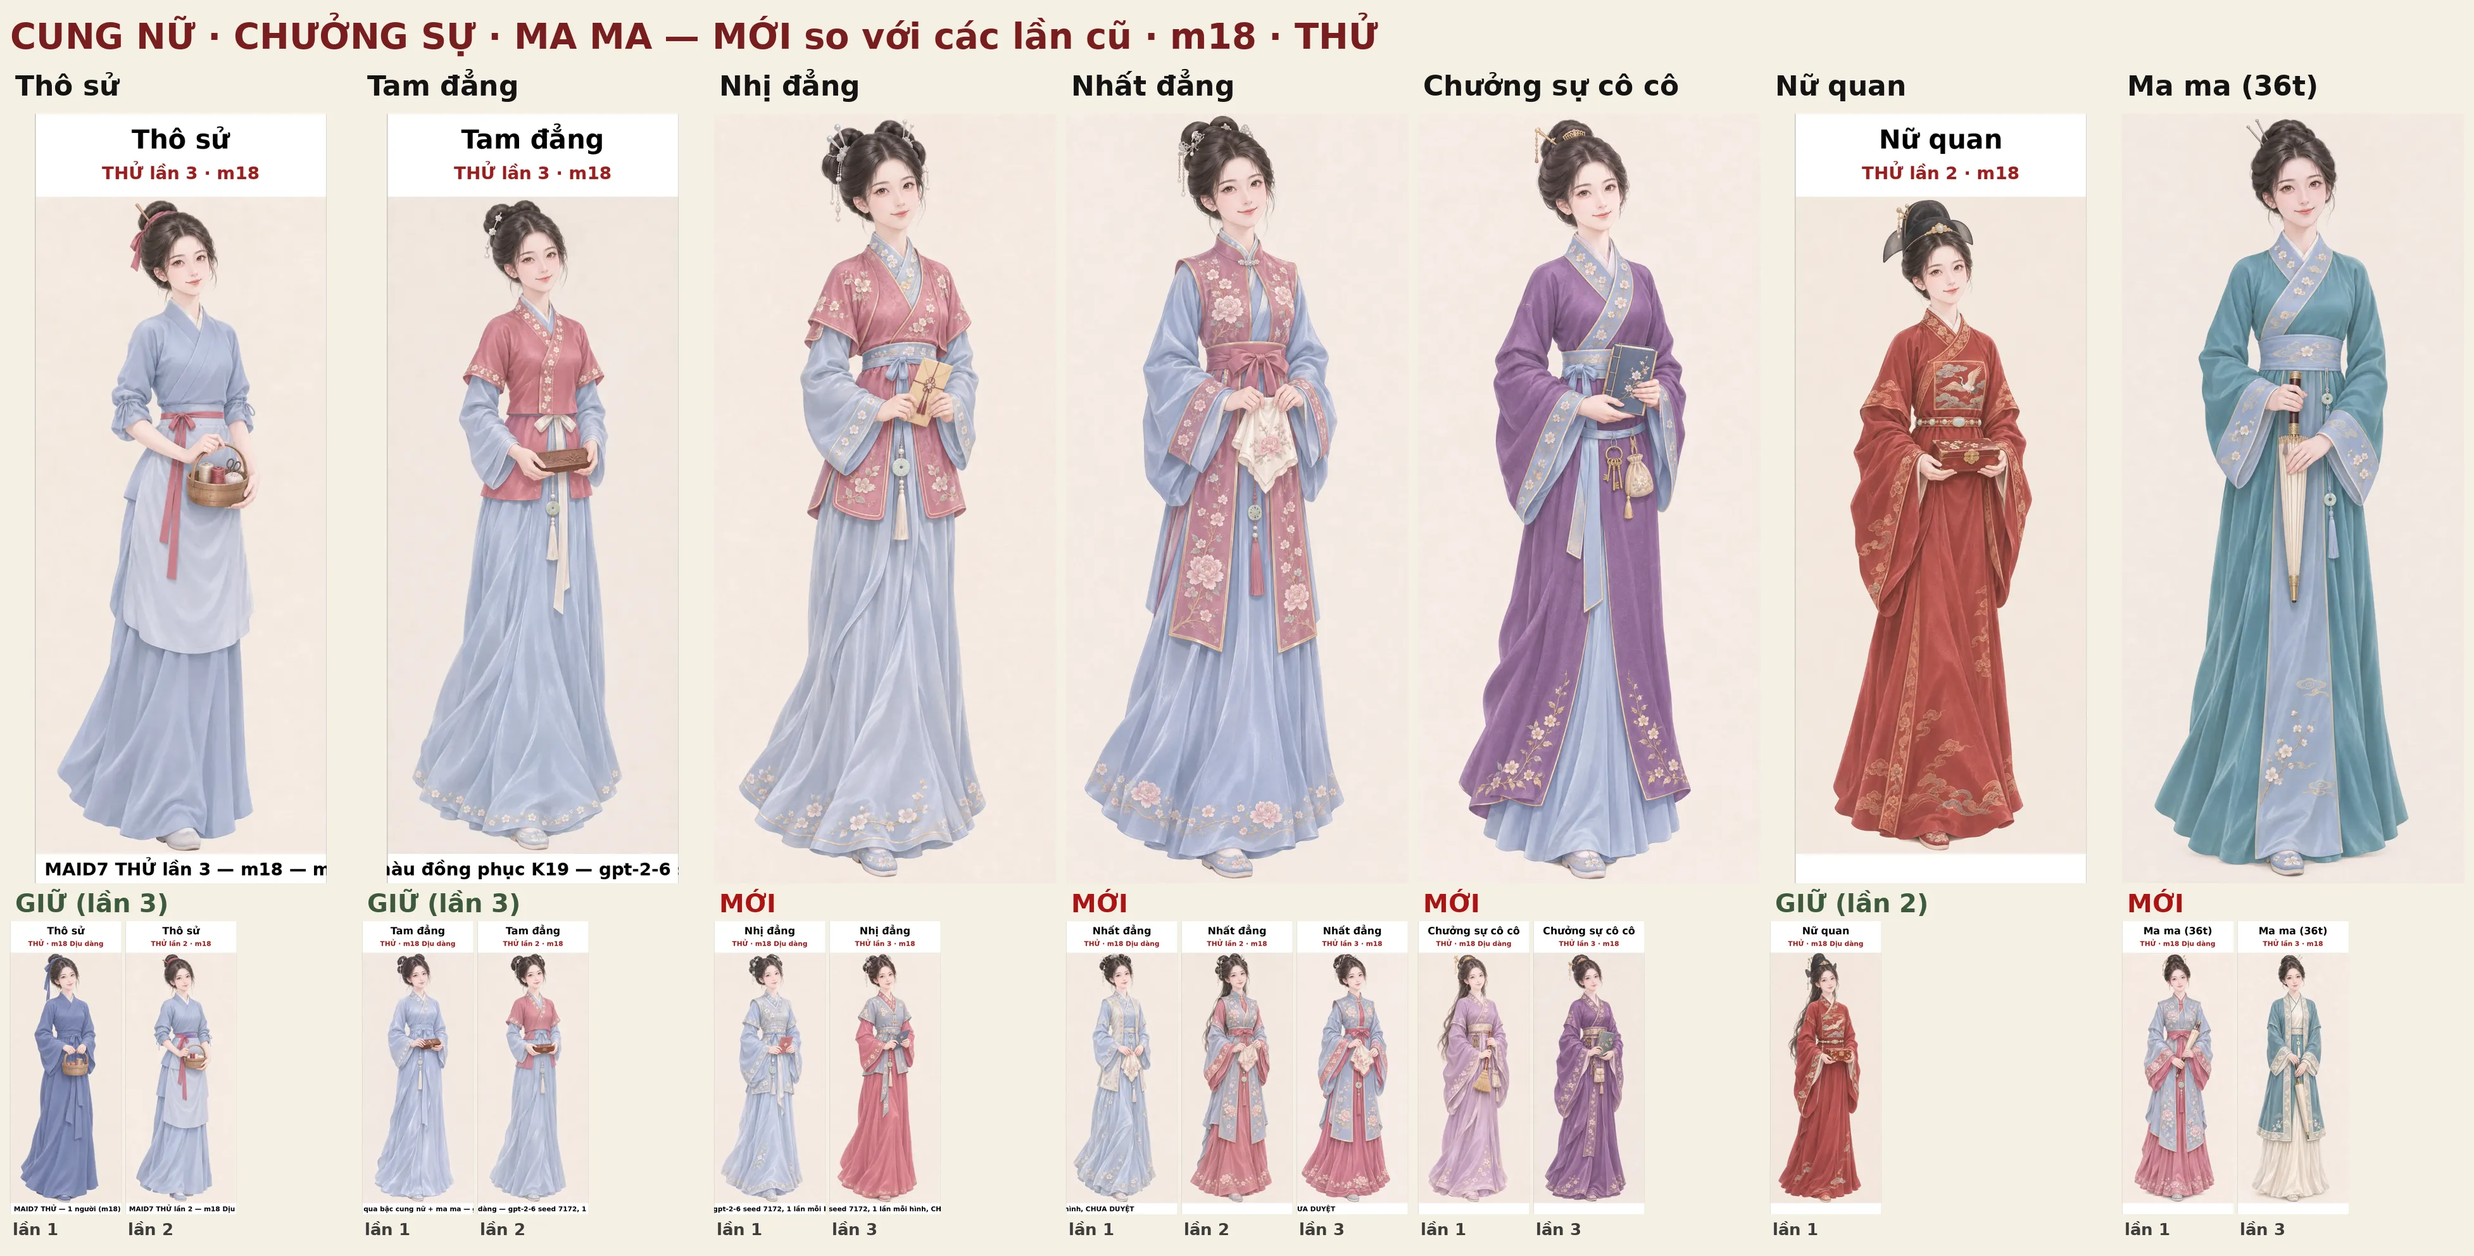
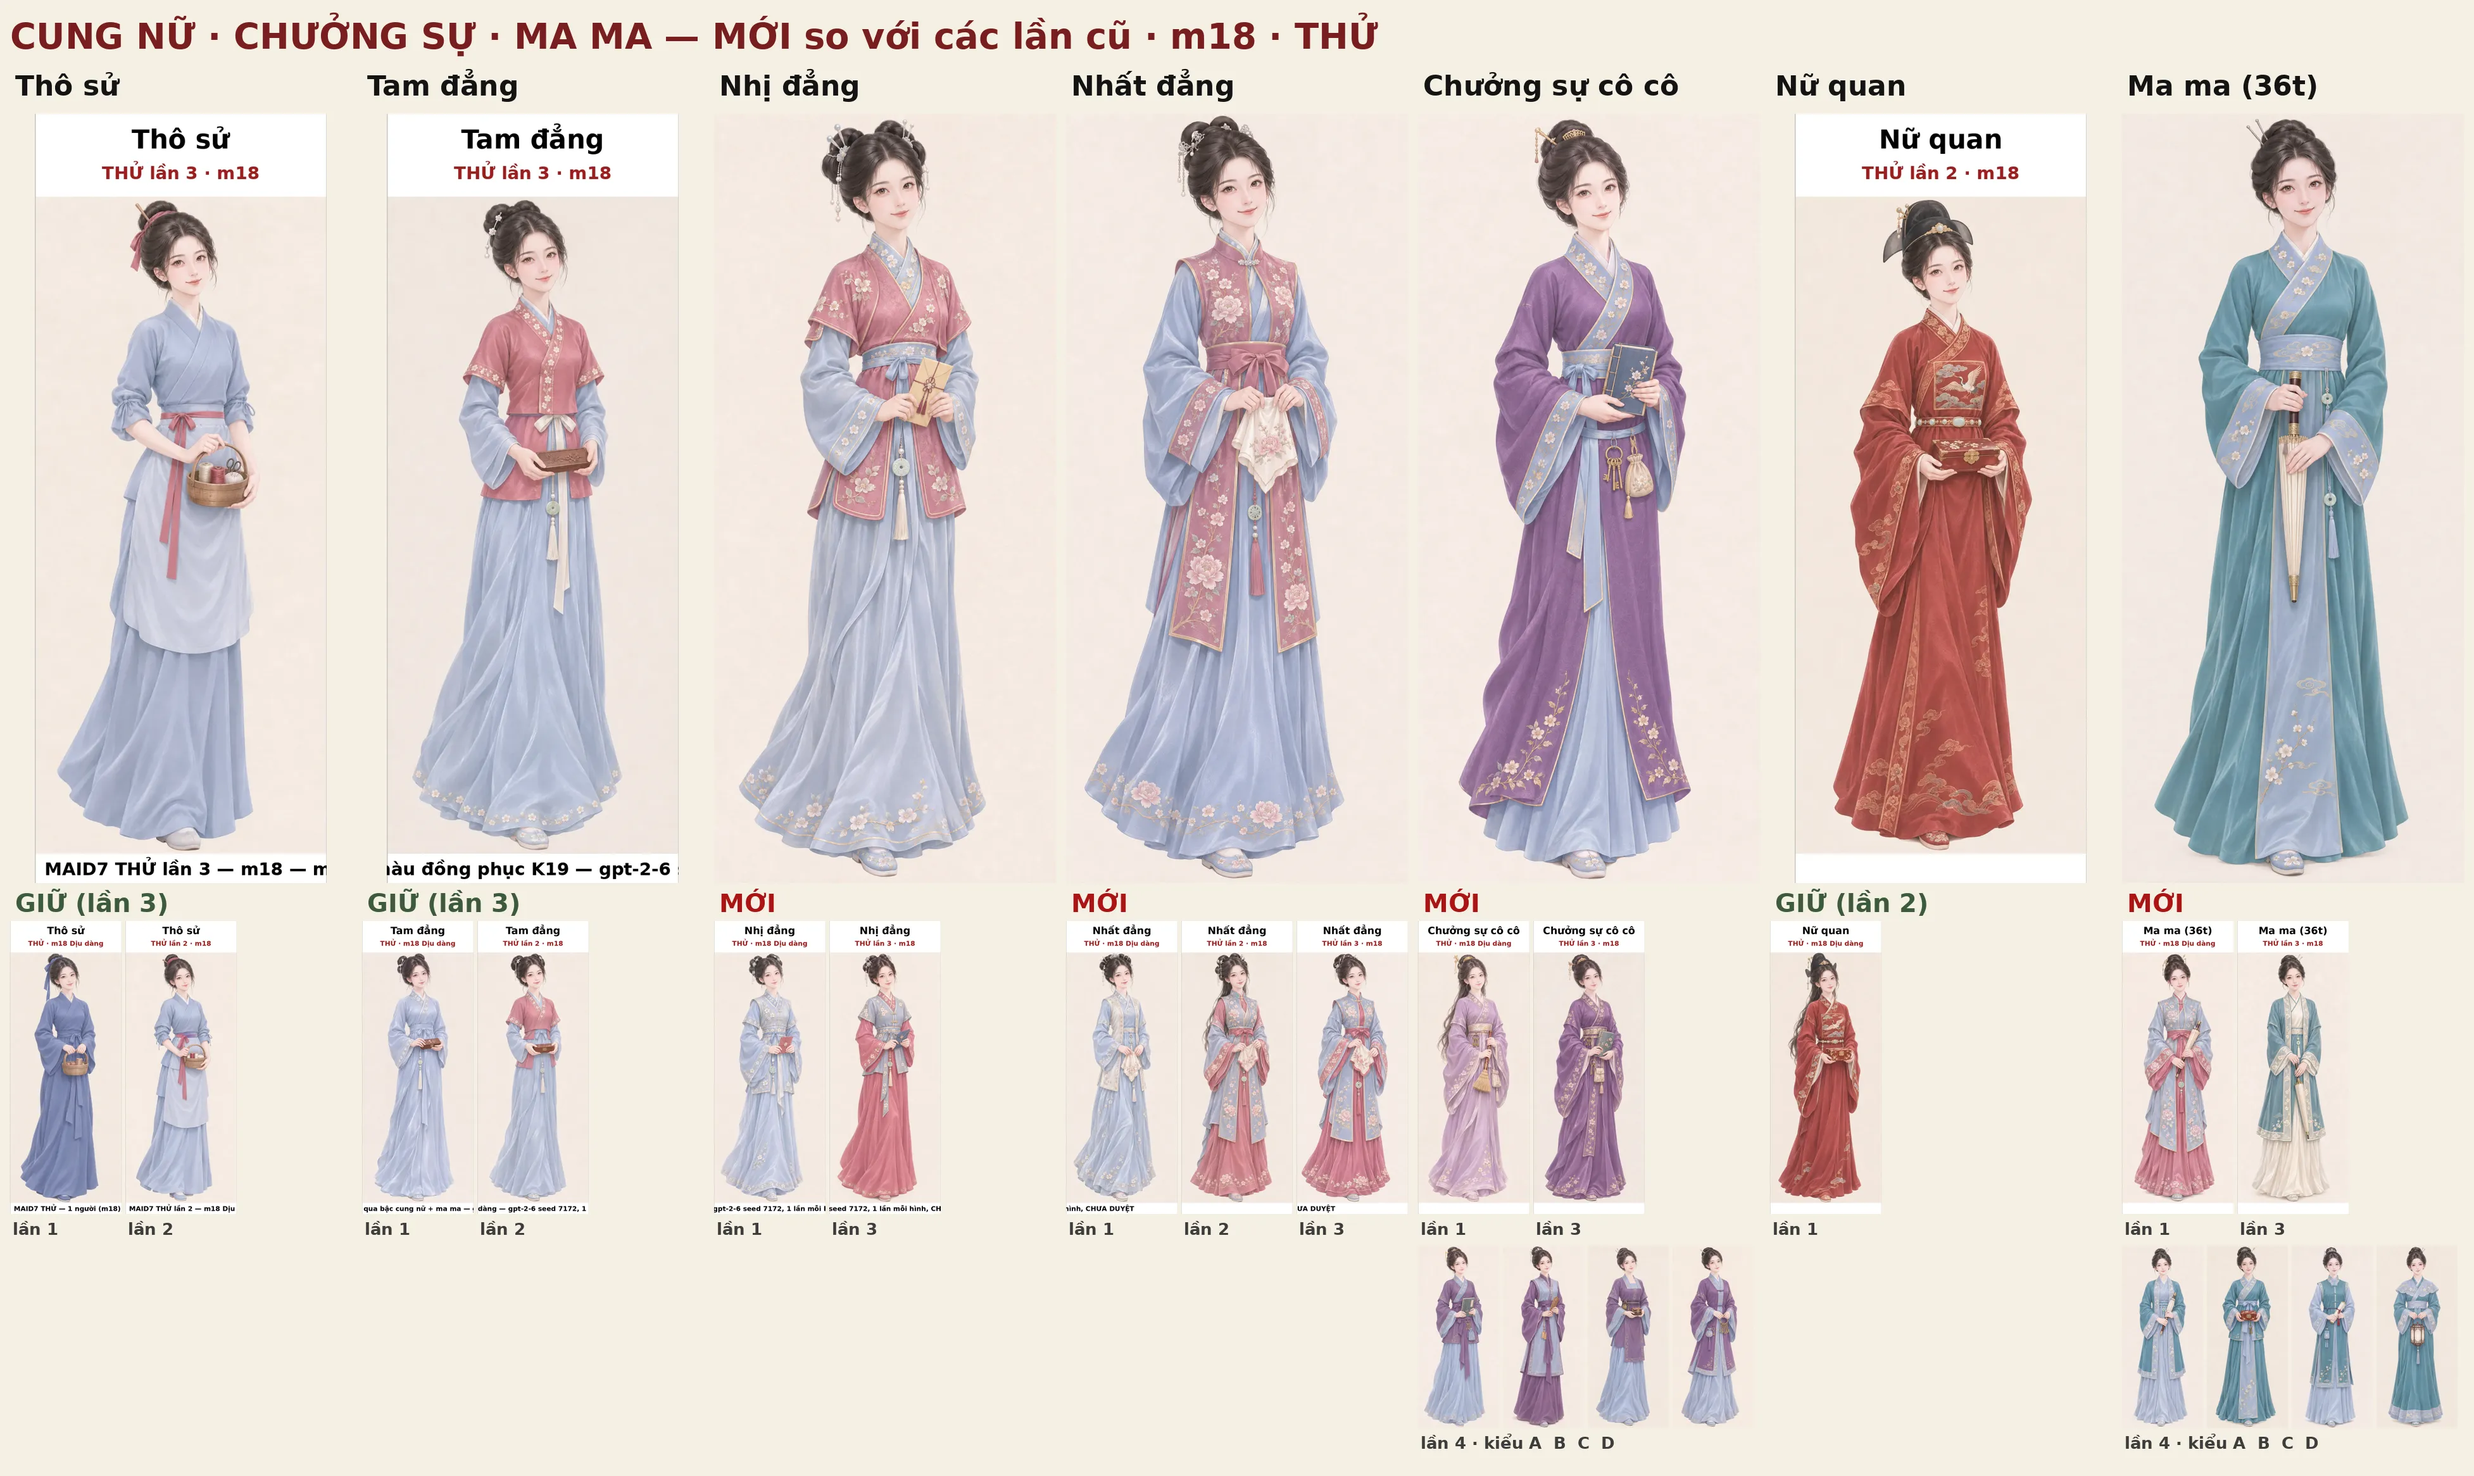
MAID8: v5 compare sheet adds round-4 variants; HOLD timing in report
Claude-Session: https://claude.ai/code/session_01D3E3NZtN8SBFowp8wT25RP

diff --git a/dev/handover/reports/MAID8.md b/dev/handover/reports/MAID8.md
@@ -32,3 +32,5 @@ The HOLD messages (queued 15:10Z/15:12Z) reached this session only at 15:18Z, af
 Thô sử / tam đẳng (round 3) and nữ quan (round 2) kept, not redrawn.
 Sheet (A37, NEW big + old rounds small under each rank): dev/handover/review-sheets/maid7/m18_maid_ladder_v5_so_sanh.webp (395 KB). Ledger 4× MAID7-TEST. Prompts test5_*.txt (make5.py), CHANGES.md §ROUND 5. No redraw, no cut-outs.
 All same face, mouth closed, no earrings, no hair flowers, no broom.
+HOLD timing (asked by Foreman C #2): round-4 fired ~15:13–15:15Z; HOLD messages queued 15:10:08Z / 15:12:57Z but delivered to this session only at 15:18:55Z (first notification read), i.e. after firing. Round-5 GO (queued 15:18:29Z) read at the same time.
+Sheet v5 updated: round-4 chưởng sự / ma ma kiểu A–D added as a small row under their columns (rounds 1/2/3/4 all shown). webp only.
